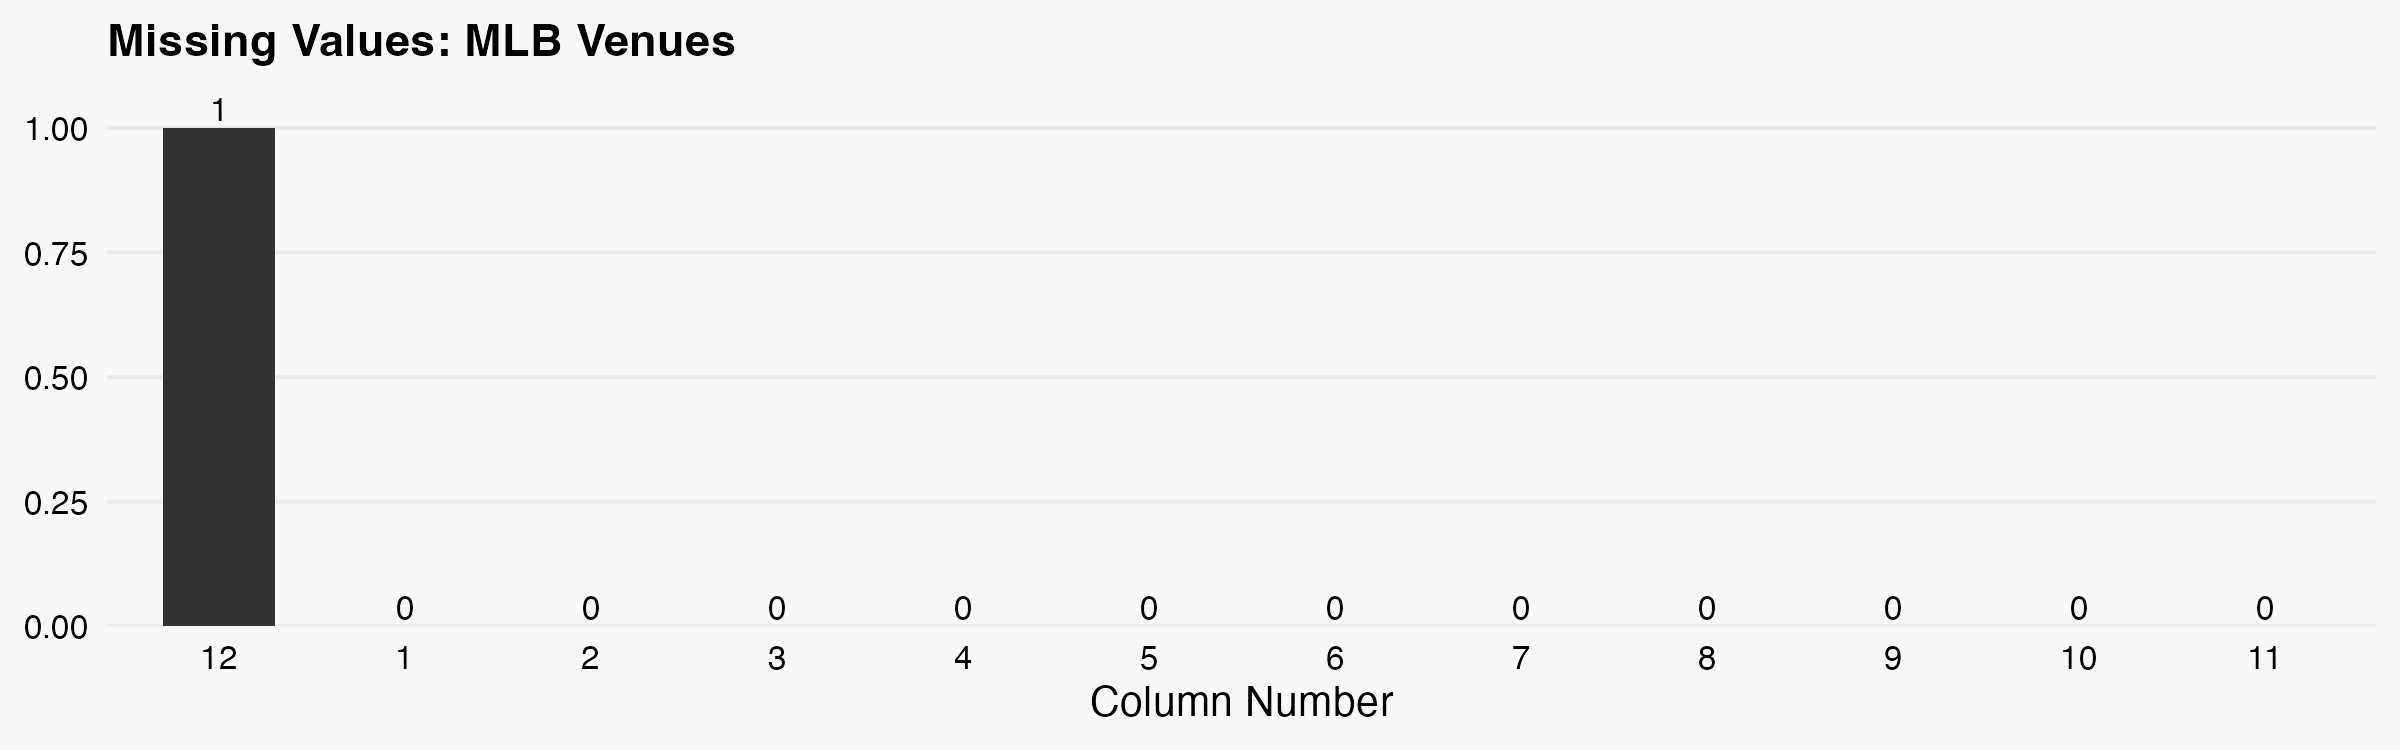
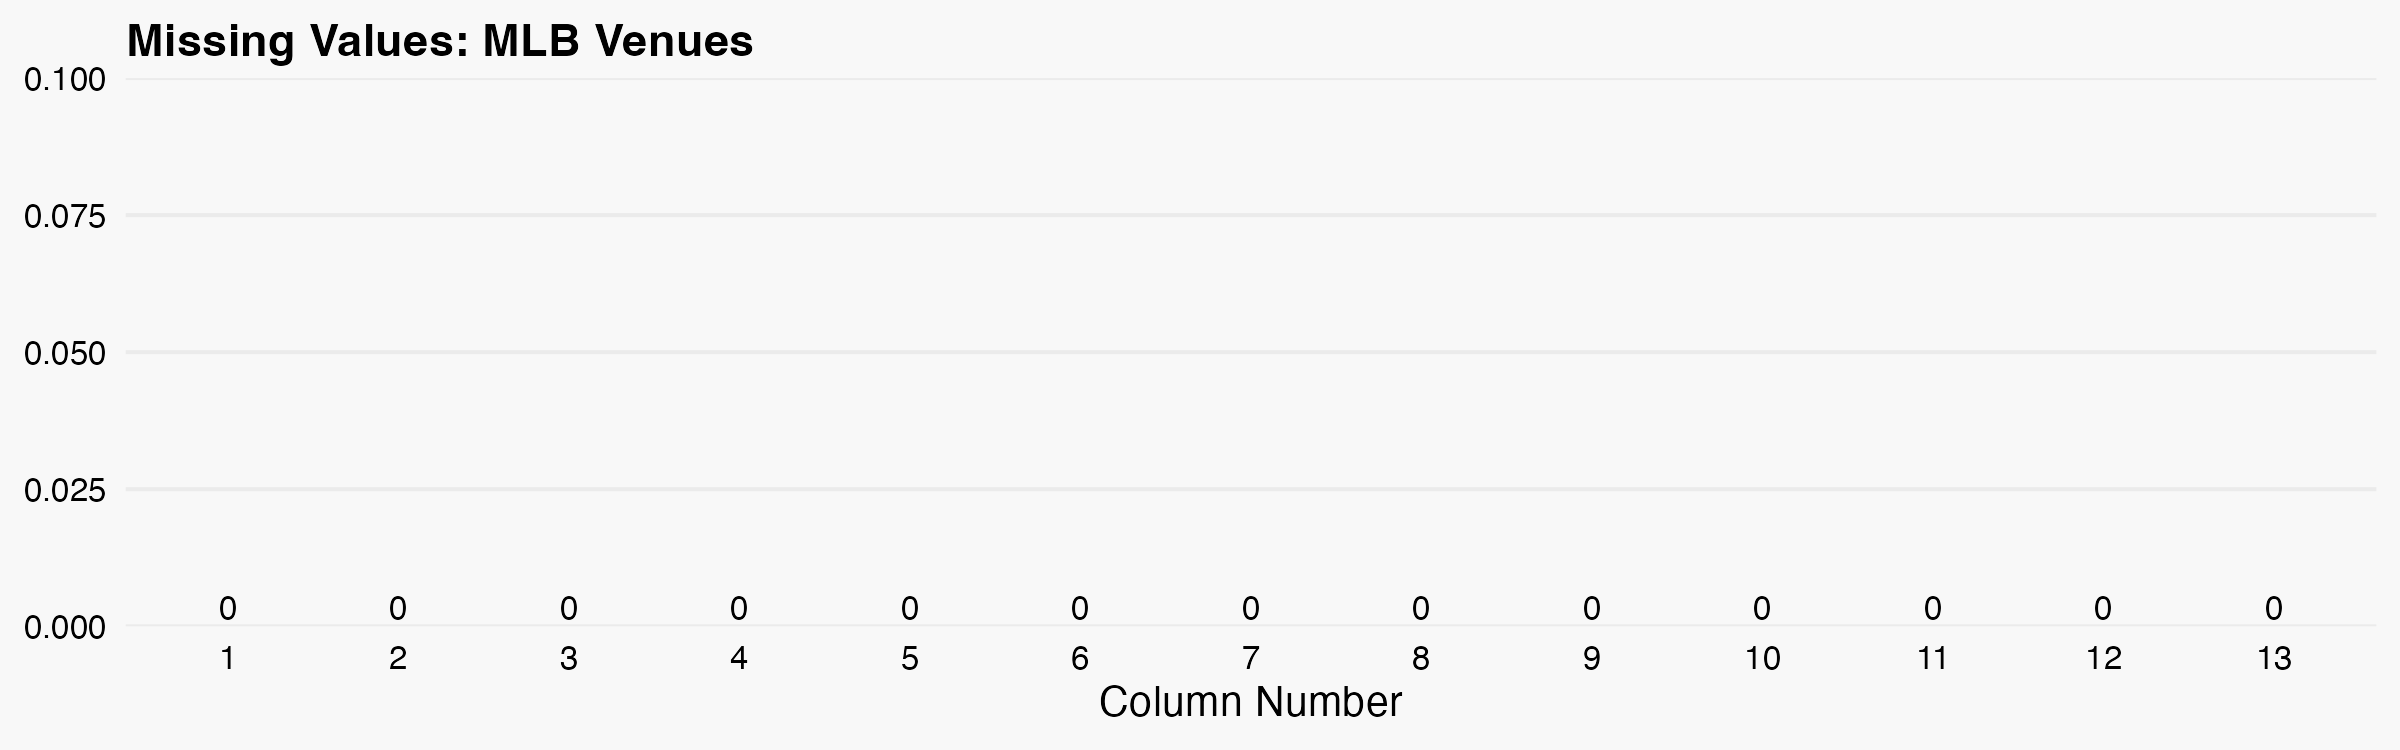
added venue mapping

diff --git a/R/venues/readme.md b/R/venues/readme.md
@@ -1,7 +1,7 @@
 
 ## MLB Venues
 
-![Missing Values](../../output/tables/mlb_venues_missing_data.png)
+![Missing Values](../../output/tables/mlb_venues_map_plot.png)
 
  Retrieves MLB venues data wiki pages. The combined data is processed into a structured dataframe and saved to a CSV file. 
 
@@ -20,11 +20,12 @@
 | 5 | longitude | string | Longitude in decimal degrees (e.g., 82.50667°W) |
 | 6 | capacity | string | Current official seating capacity |
 | 7 | surface | string | Standardized playing surface type |
-| 8 | field_size_left | string | Left field distance in feet |
-| 9 | field_size_left_center | string | Left-center field distance in feet |
-| 10 | field_size_center | string | Center field distance in feet |
-| 11 | field_size_right_center | string | Right-center field distance in feet |
-| 12 | field_size_right | string | Right field distance in feet |
+| 8 | roof | string | Roof type of the field |
+| 9 | field_size_left | string | Left field distance in feet |
+| 10 | field_size_left_center | string | Left-center field distance in feet |
+| 11 | field_size_center | string | Center field distance in feet |
+| 12 | field_size_right_center | string | Right-center field distance in feet |
+| 13 | field_size_right | string | Right field distance in feet |
 
 | Sources |
 |--------|
